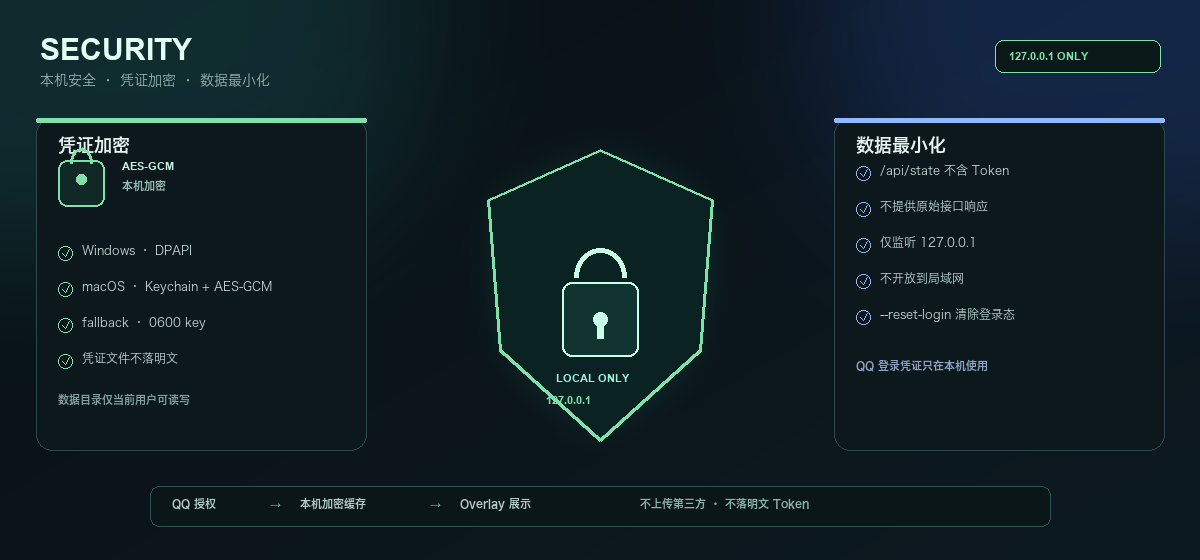
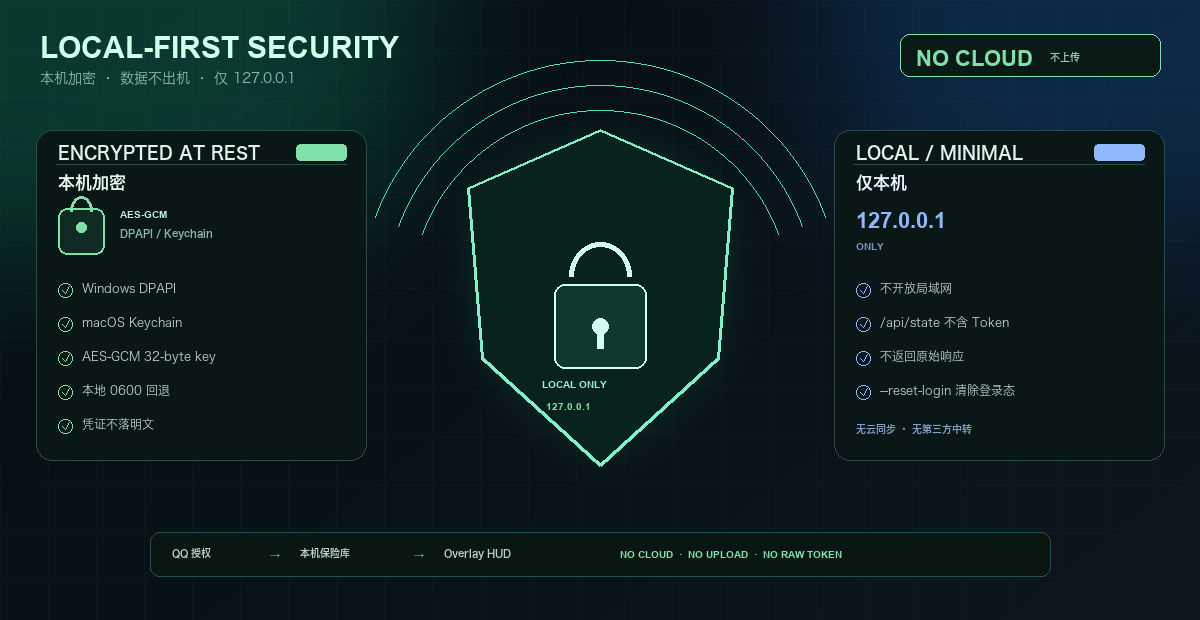
docs: restructure README with live/UI/local-first flow

diff --git a/README.md b/README.md
@@ -2,61 +2,85 @@
   <img src="docs/images/hero.png" width="100%" alt="Valorant CN OBS Overlay">
 </div>
 
-<h1 align="center">Valorant CN OBS Overlay</h1>
+<h1 align="center">VALORANT CN OBS OVERLAY</h1>
 
 <p align="center">
-  <b>国服《无畏契约》段位直播叠加层</b><br>
-  Windows 10/11 · macOS 12+ · OBS 浏览器源
+  <b>国服《无畏契约》段位直播 HUD</b><br>
+  Windows 10/11 · macOS 12+ · OBS Browser Source
 </p>
 
 <p align="center">
   <a href="../../releases/latest"><img src="https://img.shields.io/badge/下载-v1.1.0-8fb8ff?style=for-the-badge" alt="下载 v1.1.0"></a>
-  <img src="https://img.shields.io/badge/Windows-10%2F11-0078D6?style=flat-square&logo=windows&logoColor=white" alt="Windows 10/11">
-  <img src="https://img.shields.io/badge/macOS-12%2B-111111?style=flat-square&logo=apple&logoColor=white" alt="macOS 12+">
-  <img src="https://img.shields.io/badge/Go-1.23-00ADD8?style=flat-square&logo=go&logoColor=white" alt="Go 1.23">
+  <img src="https://img.shields.io/badge/Windows-10%2F11-0078D6?style=flat-square&logo=windows&logoColor=white" alt="Windows">
+  <img src="https://img.shields.io/badge/macOS-12%2B-111111?style=flat-square&logo=apple&logoColor=white" alt="macOS">
+  <img src="https://img.shields.io/badge/Go-1.23-00ADD8?style=flat-square&logo=go&logoColor=white" alt="Go">
   <img src="https://img.shields.io/badge/License-AGPL--3.0-3da639?style=flat-square" alt="AGPL-3.0">
 </p>
 
 <p align="center">
-  非官方社区工具，与 Riot Games、腾讯及《无畏契约》官方无隶属关系。<br>
-  通过 QQ 扫码登录掌上无畏契约，在本机 OBS 中实时显示段位、RR、今日战绩、上一局变化和连胜/连败。
+  <code>420×120</code> · <code>127.0.0.1</code> · <code>STREAM-READY</code> · <code>LOCAL-FIRST</code>
 </p>
+
+> 非官方社区工具，与 Riot Games、腾讯及《无畏契约》官方无隶属关系。掌瓦接口为非公开接口，官方更新后可能失效。
 
 ---
 
-## 效果预览 & UI 设计
-
-### 1. OBS 实机合成
+## 01 / LIVE HUD
 
 <p align="center">
   <img src="docs/images/obs-scene.png" width="1000" alt="OBS 实机场景：420×120 浏览器源位于左上角">
 </p>
 
-<p align="center"><sub>OBS 场景示意 · 420 × 120 · UI 位于左上角 · 实机画面：Riot Games / <a href="https://wiki.playvalorant.com/en-us/File:Gameplay_1.jpeg">VALORANT Wiki</a> · 仅作 UI 合成示意</sub></p>
+<p align="center"><sub>OBS 场景示意 · 420×120 · UI 左上角 · 实机画面：Riot Games / <a href="https://wiki.playvalorant.com/en-us/File:Gameplay_1.jpeg">VALORANT Wiki</a> · 仅作 UI 合成示意</sub></p>
 
-### 2. Overlay 状态
+**STREAM-READY HUD**：段位图标、RR、今日战绩、上一局变化、连胜/连败，一块卡全收。
+
+| 参数 | 值 |
+|:--|:--|
+| Browser Source | <code>http://127.0.0.1:8787/overlay</code> |
+| Size | <code>420 × 120</code> |
+| Position | 左上 / 任意角 |
+| Background | 透明 |
+
+## 02 / UI SYSTEM
 
 <p align="center">
-  <img src="docs/images/overlay-states-grid.png" width="1000" alt="四种 Overlay 状态双排横轴：神话II 3 连胜、辐能 5 连败、神话II 5 连败、辐能 3 连胜">
+  <img src="docs/images/overlay-states-grid.png" width="1000" alt="四种 Overlay 状态双排横轴">
 </p>
 
 <p align="center"><sub>双排横轴：神话II · 3 连胜 / 辐能 · 5 连败 / 神话II · 5 连败 / 辐能 · 3 连胜</sub></p>
 
-### 3. 全段位展示
+### STATE × COPY
+
+| 实战状态 | UI 文案 | 视觉反馈 |
+|:--|:--|:--|
+| 神话II · 3 连胜 | 今日 3 胜 / 1 负 · 上一局 +18 分 | 鎏金呼吸 |
+| 辐能 · 5 连败 | 今日 0 胜 / 0 负 · 上一局 -22 分 | 红黑警报 |
+| 神话II · 5 连败 | 今日 0 胜 / 0 负 · 上一局 -22 分 | 红黑警报 |
+| 辐能 · 3 连胜 | 今日 3 胜 / 1 负 · 上一局 +18 分 | 鎏金呼吸 |
+
+~~~text
+神话II · 350分 · 3连胜 · 今日 3-1
+辐能 · 500分 · 5连败 · 今日 0-0
+~~~
+
+### ALL RANKS
 
 <p align="center">
-  <img src="docs/images/rank-gallery.png" width="1000" alt="全段位展示：黑铁、青铜、白银、黄金、铂金、钻石、超凡、神话、辐能">
+  <img src="docs/images/rank-gallery.png" width="1000" alt="全段位展示：黑铁至辐能">
 </p>
 
-<p align="center"><sub>黑铁 → 辐能 · 每个段位的官方图标与主色；段位色会直接影响卡片背景</sub></p>
+<p align="center"><sub>黑铁 → 辐能 · 官方图标 / 主色 / 层级 · 段位色会直接影响卡片背景</sub></p>
 
-### 4. UI 设计系统
+### UI ANATOMY
 
 <p align="center">
-  <img src="docs/images/ui-anatomy.png" width="1000" alt="UI 组件框选说明：段位图标、段位与 RR、连胜徽章、今日战绩、上一局变化">
+  <img src="docs/images/ui-anatomy.png" width="1000" alt="UI 组件框选说明">
 </p>
 
-<p align="center"><sub>组件框选说明：① 段位图标 · ② 段位 + RR · ③ 连胜/连败徽章 · ④ 今日战绩 · ⑤ 上一局变化 · ⑥ 段位色边框</sub></p>
+<p align="center"><sub>① 段位图标 · ② 段位 + RR · ③ 连胜/连败徽章 · ④ 今日战绩 · ⑤ 上一局变化 · ⑥ 段位色边框</sub></p>
+
+### DESIGN SYSTEM
 
 <p align="center">
   <img src="docs/images/ui-board.png" width="1000" alt="UI 设计系统：神话 / 辐能、鎏金连胜、红黑连败">
@@ -64,7 +88,7 @@
 
 <p align="center"><sub>段位主色 / 鎏金连胜 / 红黑连败 / 徽章与 2.4s 同频呼吸</sub></p>
 
-### 5. 状态页
+### STATUS PAGE
 
 <p align="center">
   <img src="docs/images/status-page.png" width="720" alt="辐能状态页">
@@ -72,58 +96,61 @@
 
 <p align="center"><sub>本机状态页：辐能 · 500 分 · 3 连胜 · 今日 3 胜 / 1 负</sub></p>
 
-<blockquote>
-<p><b>UI 细节</b>：段位主色会跟着段位变化（神话为粉红、辐能为金色），再叠加上一局胜负色（连胜鎏金、连败红黑）；连胜/连败徽章和整卡呼吸同频，达到 2 场才触发。</p>
-</blockquote>
+> **UI 细节**：段位主色跟着段位走（神话粉红、辐能鎏金），再叠加上一局胜负色；连胜鎏金、连败红黑。徽章与整卡同频呼吸，达到 2 场才触发。
 
-## 特性
+## 03 / FEATURES
 
 <p align="center">
-  <img src="docs/images/features.png" width="1000" alt="特性效果图：游戏内段位图标、段位/胜负动态背景、同频呼吸、双平台、本机加密、状态页与诊断">
+  <img src="docs/images/features.png" width="1000" alt="特性效果图">
 </p>
 
 <p align="center"><sub>游戏内段位图标 · 段位/胜负动态背景 · 同频呼吸 · Windows / macOS · 本机加密 · 状态页与诊断</sub></p>
 
-## v1.1.0 更新
+## 04 / LOCAL-FIRST SECURITY
 
-- 新增 macOS 12+ 支持，Apple Silicon / Intel 双架构。
-- 修复网络抖动误删登录态、后台刷新弹二维码、启动必须先登录等问题。
-- 补全 QQ 二维码状态码处理：<code>65</code> 失效、<code>53</code> 取消、<code>66/67</code> 继续轮询。
-- 新增 <code>/status</code> 状态页、<code>--diagnose</code>、显式重新登录。
-- 上一局和连胜/连败只统计**本次软件启动后**的竞技对局，重启归零。
-- 完整说明：[v1.1.0 发布说明](docs/releases/v1.1.0.md)
+<p align="center">
+  <img src="docs/images/security.png" width="1000" alt="LOCAL-FIRST 安全效果图">
+</p>
 
-## 快速开始
+<p align="center"><sub>本机加密 · 数据不出机 · 仅 127.0.0.1 · NO CLOUD / NO UPLOAD</sub></p>
+
+| ENCRYPTED AT REST | LOCAL ONLY | MINIMAL DATA |
+|:--|:--|:--|
+| Windows DPAPI<br>macOS Keychain + AES-GCM<br>本地 0600 回退 | 只监听 <code>127.0.0.1</code><br>不开放局域网<br>无云同步 | <code>/api/state</code> 不含 Token<br>不返回原始响应<br><code>--reset-login</code> 可清除 |
+
+- Windows 凭证：<code>%LOCALAPPDATA%\ValorantCNOverlay\credentials.bin</code>
+- macOS 凭证：<code>~/Library/Application Support/ValorantCNOverlay/credentials.bin</code>
+- 凭证文件本身不是明文 Token；不要把数据目录上传网盘或发给他人。
+
+## 05 / QUICK START
 
 ### Windows
 
 1. 从 [Releases](../../releases/latest) 下载 **Windows x64 ZIP**。
-2. **完整解压**到普通文件夹，不要直接在压缩包里运行。
-3. 双击 <code>启动段位Overlay.bat</code>。
-4. 用 QQ 扫码并确认授权；登录成功后浏览器会打开 Overlay 预览。
-5. 保持程序窗口运行，关闭窗口或按 <code>Ctrl+C</code> 停止。
+2. 完整解压，双击 <code>启动段位Overlay.bat</code>。
+3. QQ 扫码授权。
+4. 浏览器打开预览，OBS 添加 Browser Source。
 
 > [!NOTE]
-> 不需要安装 Python、pip 或管理员权限。SmartScreen 可能提示“未知发布者”，请先核对 Release 来源和 <code>CHECKSUMS.sha256</code>。
+> 不需要 Python、pip 或管理员权限。SmartScreen 可能提示未知发布者，请核对 Release 与 <code>CHECKSUMS.sha256</code>。
 
 ### macOS
 
 1. 从 [Releases](../../releases/latest) 下载 **macOS ZIP**。
-2. **完整解压**到普通文件夹。
-3. 第一次打开时，右键 <code>启动段位Overlay.command</code> → **打开**。
-4. 用 QQ 扫码并确认授权；登录成功后浏览器会打开 Overlay 预览。
-5. 保持终端窗口运行，按 <code>Ctrl+C</code> 或关闭终端停止。
+2. 完整解压，右键 <code>启动段位Overlay.command</code> → 打开。
+3. QQ 扫码授权；Keychain 弹窗选择“允许”。
+4. 保持终端运行，OBS 添加 Browser Source。
 
-如果 Gatekeeper 仍拦截：
+如果 Gatekeeper 拦截：
 
 ~~~bash
 xattr -dr com.apple.quarantine /路径/到/解压目录
 ~~~
 
 > [!NOTE]
-> macOS 首次访问 Keychain 时可能弹窗，请选择“允许”。如果 Keychain 不可用，程序会回退到数据目录内的 <code>0600</code> 本地密钥文件，凭证仍然不是明文。
+> Keychain 不可用时回退到数据目录内 <code>0600</code> 本地密钥，凭证仍不是明文。
 
-## OBS 设置
+## 06 / OBS SETUP
 
 OBS → **来源** → **+** → **浏览器**：
 
@@ -133,82 +160,69 @@ OBS → **来源** → **+** → **浏览器**：
 | 宽度 | <code>420</code> |
 | 高度 | <code>120</code> |
 
-建议先启动程序，确认 Overlay 预览正常后再加入 OBS。
+先启动程序，确认 Overlay 预览正常，再加 OBS。
 
-## 状态页与诊断
+## 07 / STATUS & DIAGNOSTICS
 
 | 功能 | 使用方式 |
 |:--|:--|
 | 状态页 | <code>http://127.0.0.1:8787/status</code> |
 | 健康检查 | <code>http://127.0.0.1:8787/health</code> |
-| 重新登录 | 状态页按钮，或运行 <code>重新登录.bat</code> / <code>重新登录.command</code> |
-| 本机诊断 | <code>ValorantCNOverlay.exe --diagnose</code> / <code>./ValorantCNOverlay-macos-arm64 --diagnose</code> |
+| 重新登录 | 状态页按钮 / <code>重新登录.bat</code> / <code>重新登录.command</code> |
+| 本机诊断 | <code>--diagnose</code> |
 
-状态页只读取本机缓存，不会额外请求掌瓦。运行中登录失效时不会自动弹二维码，需要手动点“重新登录”。
+状态页只读本机缓存，不额外请求掌瓦。运行中登录失效不会自动弹二维码，需手动重新登录。
 
-## 安全与隐私
+## 08 / CHANGELOG
 
-<p align="center">
-  <img src="docs/images/security.png" width="1000" alt="安全效果图：凭证加密、仅本机监听、数据最小化">
-</p>
+- macOS 12+ 支持：Apple Silicon / Intel 双架构。
+- 登录可靠性：网络抖动不再误删登录态；后台刷新不弹二维码。
+- 二维码状态码补全：<code>65</code> 失效 / <code>53</code> 取消 / <code>66/67</code> 继续轮询。
+- 状态页、<code>--diagnose</code>、显式重新登录。
+- 上一局 / 连胜连败只统计本次启动后的竞技对局，重启归零。
+- 完整说明：[v1.1.0 发布说明](docs/releases/v1.1.0.md)
 
-<p align="center"><sub>凭证本机加密 · 仅监听 127.0.0.1 · /api/state 不含 Token · 支持 --reset-login 清除</sub></p>
-
-- **Windows**：<code>%LOCALAPPDATA%\ValorantCNOverlay\credentials.bin</code>，使用 **DPAPI** 加密。
-- **macOS**：<code>~/Library/Application Support/ValorantCNOverlay/credentials.bin</code>，使用 **AES-GCM** 加密；密钥优先放在 Keychain。
-- 本地 HTTP 服务只监听 <code>127.0.0.1</code>，不会主动开放到局域网。
-- <code>/api/state</code> 只提供段位、RR、胜负等展示数据，不提供登录 Token。
-- 不要把数据目录上传到 GitHub、网盘或发给其他人。
-
-需要彻底清除登录态：<code>--reset-login</code>
-
-## 常见问题
+## 09 / FAQ
 
 <details>
 <summary><b>二维码过期 / 登录失效</b></summary>
 
-二维码真正过期时程序会自动刷新，不需要手动重启。  
-如果程序已经退出，重新双击启动器即可。运行中登录失效不会自动弹二维码，请使用状态页的“重新登录”或对应启动器。
+二维码真正过期会自动刷新；程序退出后重新启动即可。运行中登录失效不会自动弹二维码，请用状态页“重新登录”。
 
 </details>
 
 <details>
 <summary><b>OBS 页面空白</b></summary>
 
-先在浏览器打开 <code>http://127.0.0.1:8787/health</code>，正常应返回：
+先访问 <code>http://127.0.0.1:8787/health</code>，正常返回：
 
 ~~~json
 {"ok":true}
 ~~~
 
-再检查 OBS 浏览器源 URL 是否为 <code>http://127.0.0.1:8787/overlay</code>。
+再检查 Browser Source URL。
 
 </details>
 
 <details>
 <summary><b>数据停止更新</b></summary>
 
-Overlay 会保留最后一次成功数据并显示黄色状态点。可能是网络波动、登录态失效或掌瓦接口变化。  
-先查看 <code>http://127.0.0.1:8787/status</code> 的错误/告警；如果是登录失效，点击“重新登录”。
+Overlay 保留最后一次数据并显示黄色状态点。先看 <code>/status</code> 的错误/告警；登录失效就重新登录。
 
 </details>
 
 <details>
 <summary><b>端口 8787 被占用</b></summary>
 
-Windows：
-
 ~~~powershell
 .\ValorantCNOverlay.exe --port 8788
 ~~~
-
-macOS：
 
 ~~~bash
 ./ValorantCNOverlay-macos-arm64 --port 8788
 ~~~
 
-OBS URL 同步改成 <code>http://127.0.0.1:8788/overlay</code>。
+OBS URL 改为 <code>http://127.0.0.1:8788/overlay</code>。
 
 </details>
 
@@ -217,43 +231,39 @@ OBS URL 同步改成 <code>http://127.0.0.1:8788/overlay</code>。
 
 | 参数 | 说明 |
 |:--|:--|
-| <code>--port 8787</code> | 本地 HTTP 端口 |
-| <code>--refresh 30</code> | 掌瓦刷新间隔（5–3600 秒） |
-| <code>--no-open</code> | 启动后不自动打开浏览器或二维码 |
-| <code>--reset-login</code> | 删除本机加密登录态并重新扫码 |
+| <code>--port 8787</code> | 本地端口 |
+| <code>--refresh 30</code> | 掌瓦刷新间隔 5–3600 秒 |
+| <code>--no-open</code> | 不自动打开浏览器/二维码 |
+| <code>--reset-login</code> | 删除登录态并重新扫码 |
 | <code>--data-dir 目录</code> | 自定义数据目录 |
-| <code>--diagnose</code> | 检查数据目录、系统安全存储、端口和连通性 |
-| <code>--version</code> | 显示版本和 commit |
+| <code>--diagnose</code> | 数据目录/安全存储/端口/连通性 |
+| <code>--version</code> | 版本和 commit |
 
-同一时间只允许一个实例运行。
+同一时间只允许一个实例。
 
 </details>
 
-## 从源码构建
-
-项目只使用 Go 标准库，无第三方 Go module 依赖。
+## 10 / BUILD
 
 ~~~bash
 go test ./...
 go vet ./...
 
-# macOS：同时构建 Apple Silicon 和 Intel
+# macOS 双架构
 ./scripts/build-macos.sh
 
 # Windows
 go build -trimpath -ldflags "-s -w -X main.version=1.1.0" -o ValorantCNOverlay.exe ./src/cmd/valorant-overlay
 ~~~
 
-GitHub Actions 会运行测试并生成 Windows x64 / macOS ZIP；推送 <code>v*</code> tag 时创建 Release。
+GitHub Actions 运行测试并产出 Windows / macOS ZIP；<code>v*</code> tag 创建 Release。
 
-## 文档
+## 11 / DOCS & LICENSE
 
 - [RR 解析与诊断](docs/rr-diagnostics.md)
 - [v1.1.0 发布说明](docs/releases/v1.1.0.md)
-- [第三方许可与署名](THIRD_PARTY_NOTICES.md)
+- [第三方许可](THIRD_PARTY_NOTICES.md)
 
-## 许可
-
-本项目以 **GNU Affero General Public License v3.0 or later (AGPL-3.0-or-later)** 发布。完整条款见 [LICENSE](LICENSE)。
+本项目以 **AGPL-3.0-or-later** 发布，完整条款见 [LICENSE](LICENSE)。
 
 <p align="center"><sub>Made for the CN Valorant community · Not affiliated with Riot Games / Tencent</sub></p>
